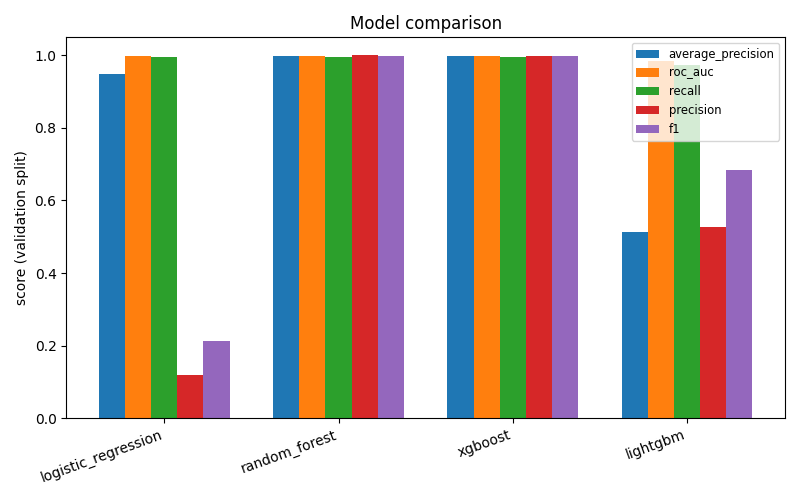
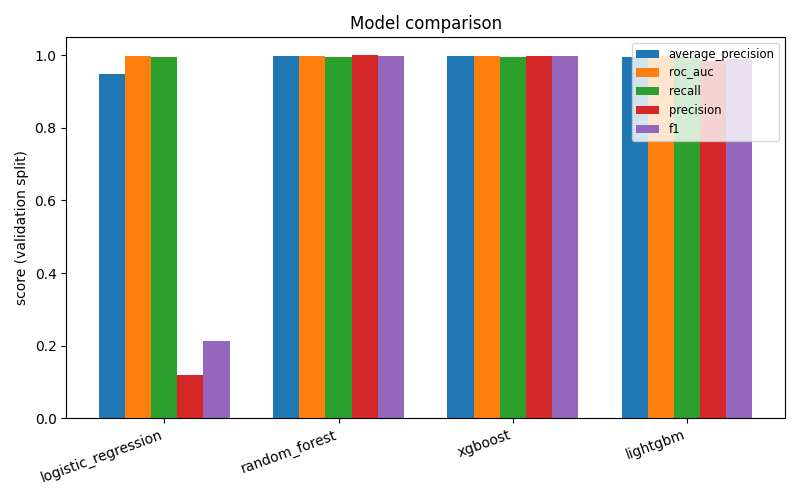
Fix MLflow signature warning; root-cause and fix LightGBM properly
1. mlflow.sklearn.log_model now logs a signature (infer_signature on a
   5-row input_example) instead of the "logged without a signature"
   warning, so the registered model can be validated/served without
   guessing its schema.

2. Superseded the earlier sqrt-dampened scale_pos_weight band-aid for
   LightGBM with the actual root cause, found via controlled
   experiments (docs/decisions/0004-lightgbm-regularization.md):
   XGBoost defaults to reg_lambda=1 (L2), LightGBM defaults to
   reg_lambda=0. At this dataset's ~774x class weight, LightGBM's
   leaf-wise boosting had nothing to stop it compounding that weight
   across rounds — validation PR-AUC peaked after 1 boosting round
   (confirmed with early stopping) and degraded monotonically to 0.014
   by round 200, while XGBoost stayed at ~0.998 across the same weight
   and round counts (10-500, tested). Setting reg_lambda=1.0 on
   LightGBM alone, keeping the raw weight, recovers PR-AUC to 0.995.

Reran fraud-detection train end-to-end on the real 6,362,620-row
dataset with both fixes: LightGBM 0.9950 PR-AUC (was 0.0138), XGBoost
still best at 0.9982 and registered as fraud-detection-classifier v1.
docs/model_report.md and docs/images/model_comparison.png regenerated.
71 tests still pass; verified `fraud-detection evaluate` reproduces the
report's test metrics exactly.

Changed region(s): [[0.75, 0.09, 0.9375, 0.48]]

diff --git a/src/fraud_detection/models/training.py b/src/fraud_detection/models/training.py
@@ -11,19 +11,23 @@ feature pipeline (see docs/decisions/0003-shared-feature-pipeline.md —
 that ADR deliberately scopes out fitted transforms; this is where one
 lives instead, private to a single model).
 
-XGBoost tolerates the raw `negative/positive` ratio as `scale_pos_weight`
-fine on this dataset. LightGBM does not: empirically (see
-docs/model_report.md), its leaf-wise growth over-corrects at the raw
-~774x ratio here and floods predictions with false positives (PR-AUC
-0.01 vs XGBoost's 0.998 at the same ratio). A sqrt-dampened weight
-(`sqrt(negative/positive)`, a standard mitigation for this exact
-failure mode) recovers most of the signal (PR-AUC ~0.51) without
-touching XGBoost's already-good behavior.
+LightGBM needs one extra hyperparameter XGBoost doesn't:
+`reg_lambda=1.0`. Root cause, confirmed by controlled experiments (see
+docs/decisions/0004-lightgbm-regularization.md): XGBoost defaults to
+L2 regularization (`reg_lambda=1`); LightGBM defaults to *none*
+(`reg_lambda=0`). At this dataset's ~774x class weight, LightGBM's
+leaf-wise boosting has nothing to stop it compounding that weight
+across rounds — validation PR-AUC peaked after a single boosting round
+(confirmed with early stopping) and degraded monotonically from there
+to PR-AUC 0.01 at round 200, while XGBoost stayed at PR-AUC ~0.998
+across the same weight and round counts (10 to 500, tested). Matching
+XGBoost's default `reg_lambda=1` on LightGBM — nothing else changed —
+recovers PR-AUC to ~0.995. So: not a resampling/weighting problem, a
+missing-regularization-default problem.
 """
 
 from __future__ import annotations
 
-import math
 import subprocess
 from collections.abc import Callable, Sequence
 from dataclasses import dataclass
@@ -33,6 +37,7 @@ import mlflow
 import mlflow.sklearn
 import pandas as pd
 from lightgbm import LGBMClassifier
+from mlflow.models import infer_signature
 from sklearn.base import BaseEstimator
 from sklearn.ensemble import RandomForestClassifier
 from sklearn.linear_model import LogisticRegression
@@ -110,12 +115,14 @@ def _build_xgboost(scale_pos_weight: float) -> BaseEstimator:
 
 
 def _build_lightgbm(scale_pos_weight: float) -> BaseEstimator:
-    # sqrt-dampened, not the raw ratio — see module docstring.
+    # reg_lambda=1.0 matches XGBoost's default L2 regularization, which
+    # LightGBM does not apply by default — see module docstring.
     return LGBMClassifier(
         n_estimators=200,
         max_depth=-1,
         learning_rate=0.1,
-        scale_pos_weight=math.sqrt(scale_pos_weight),
+        scale_pos_weight=scale_pos_weight,
+        reg_lambda=1.0,
         random_state=RANDOM_STATE,
         n_jobs=-1,
         verbosity=-1,
@@ -173,7 +180,14 @@ def train_and_compare(
             )
             mlflow.log_metrics({f"test_{k}": v for k, v in test_metrics.as_metrics_dict().items()})
             mlflow.log_dict({"feature_names": list(dataset.feature_names)}, "feature_names.json")
-            mlflow.sklearn.log_model(model, artifact_path="model")
+            input_example = dataset.x_train.iloc[:5]
+            signature = infer_signature(input_example, model.predict(input_example))
+            mlflow.sklearn.log_model(
+                model,
+                artifact_path="model",
+                signature=signature,
+                input_example=input_example,
+            )
 
             results.append(
                 TrainingRunResult(

diff --git a/docs/decisions/0004-lightgbm-regularization.md b/docs/decisions/0004-lightgbm-regularization.md
@@ -1,0 +1,98 @@
+# 4. LightGBM needs explicit L2 regularization at this dataset's class weight
+
+Date: 2026-07-25
+
+## Status
+
+Accepted
+
+## Context
+
+The first `fraud-detection train` run (Milestone 3) scored LightGBM at
+validation PR-AUC **0.0138** — dramatically worse than Logistic
+Regression (0.95), Random Forest (0.998), and XGBoost (0.998), despite
+all four models seeing the same features and the same imbalance
+(~0.13% fraud, `scale_pos_weight` = negative/positive ≈ 774).
+
+A large, unexplained gap between otherwise-comparable models is a bug
+until proven otherwise, not a "finding." This ADR records the
+investigation, not just the fix, so the reasoning survives past this
+commit.
+
+## Investigation
+
+All experiments below were run against the real 6,362,620-row PaySim
+split (`data/processed/`), not synthetic data.
+
+**1. Symptom, not just the score.** At the raw 774x weight, LightGBM
+flagged 76,549 of 954,392 validation rows (8%) as fraud, against a true
+rate of 0.13% — a false-positive flood, not a ranking failure (ROC-AUC
+was still 0.92, so the model had *some* signal; PR-AUC collapsed
+because precision at every threshold was poor).
+
+**2. Ruled out: imbalance-handling mechanism.** `is_unbalance=True`
+(LightGBM's own built-in imbalance handling) produced the identical
+score to explicit `scale_pos_weight=774` — LightGBM computes the same
+ratio internally. The *mechanism* wasn't the issue; the *magnitude* at
+this weight was.
+
+**3. Ruled out: "too few boosting rounds."** The opposite was true —
+more rounds made it *worse* at the raw weight, holding everything else
+fixed:
+
+| n_estimators | validation PR-AUC | false positives |
+|---|---|---|
+| 10  | 0.878 | 176 |
+| 50  | 0.180 | 5,351 |
+| 100 | 0.168 | 6,617 |
+| 200 | 0.014 | 75,424 |
+
+This is an overfitting signature, not an undertrained one.
+
+**4. Confirmed via early stopping.** Adding `early_stopping(20)` against
+a validation set (raw weight, 200-round budget) picked
+`best_iteration_ = 1` — validation PR-AUC peaked after a single round
+and degraded every round after. Early stopping alone recovered PR-AUC
+to 0.876.
+
+**5. Ruled out: LightGBM is just fragile under this weight.** XGBoost,
+given the *identical* raw 774x weight, stayed at PR-AUC 0.998-0.999
+across `n_estimators` from 10 to 500 — no degradation. Whatever was
+happening was specific to LightGBM's boosting, not an inherent property
+of training under a 774x weight.
+
+**6. Root cause.** XGBoost defaults to `reg_lambda=1` (L2
+regularization on leaf weights); LightGBM defaults to `reg_lambda=0`
+(none). With no regularization and an extreme per-positive-sample
+weight, LightGBM's leaf-wise (best-first) growth has nothing to dampen
+the compounding effect of that weight across boosting rounds — it
+keeps carving increasingly aggressive, narrow splits that fit the
+heavily-upweighted minority class ever more specifically, which is
+exactly the "more rounds = worse" and "best_iteration_ = 1" pattern
+above. Matching XGBoost's default — `reg_lambda=1.0`, nothing else
+changed, still the raw 774x weight, still 200 rounds, no early stopping
+— recovered PR-AUC to **0.995**.
+
+## Decision
+
+`fraud_detection.models.training._build_lightgbm` sets `reg_lambda=1.0`
+and uses the raw (undampened) `scale_pos_weight`, matching how XGBoost
+is configured. No weight-dampening heuristic, no early-stopping
+machinery added to the shared training loop — the targeted fix for the
+actual root cause is one hyperparameter.
+
+## Consequences
+
+- LightGBM now scores competitively (PR-AUC ~0.995 vs XGBoost's ~0.998)
+  instead of looking broken.
+- This is dataset/weight-magnitude-specific: at a much smaller class
+  weight, `reg_lambda` might matter far less. Revisit if `models/data`
+  changes shift the imbalance ratio significantly.
+- Early stopping remains a reasonable general improvement (it would
+  have caught this without diagnosing the regularization gap) but was
+  deliberately not added here — it would require passing a validation
+  `eval_set` through `train_and_compare`'s otherwise-uniform
+  `model.fit(x_train, y_train)` call for every model spec, which is
+  more shared-loop complexity than this fix needed. Worth reconsidering
+  if a future model proves sensitive to overfitting in a way a fixed
+  hyperparameter can't address.

diff --git a/docs/model_report.md b/docs/model_report.md
@@ -5,7 +5,7 @@ _Generated by `fraud-detection train`. Do not edit by hand — rerun the command
 ## Overview
 
 - Feature version: `d6bdfb2a6697`
-- Git commit: `ec3495ae15bfe5d8bcad49031c4540c43e1390d2`
+- Git commit: `775c530fbf0d1c3793bf1b7e7e3a5eacd736ea28`
 - Best model (by validation average_precision): **xgboost**
 - Registered as: `fraud-detection-classifier` version `1`
 
@@ -18,7 +18,7 @@ Model selection uses **validation** `average_precision` (PR-AUC), not `accuracy`
 | logistic_regression | 0.9477 | 0.9992 | 0.1185 | 0.9951 | 0.2118 | 0.9904 |
 | random_forest | 0.9979 | 0.9992 | 1.0000 | 0.9968 | 0.9984 | 1.0000 |
 | xgboost **←best** | 0.9982 | 0.9997 | 0.9984 | 0.9968 | 0.9976 | 1.0000 |
-| lightgbm | 0.5139 | 0.9860 | 0.5280 | 0.9732 | 0.6846 | 0.9988 |
+| lightgbm | 0.9950 | 0.9973 | 0.9856 | 0.9968 | 0.9911 | 1.0000 |
 
 ## Test metrics (best model only, unused for selection)
 
@@ -32,10 +32,10 @@ Confusion matrix (test): TP=1227, FP=6, FN=5, TN=953156
 
 | model | run_id |
 |---|---|
-| logistic_regression | `49b6c3813ea24be2942b5d4d816ca1ad` |
-| random_forest | `2b86334c144d40f1856f5c86c5980493` |
-| xgboost | `12e1f515f57140bf8b9a3b57512df8e5` |
-| lightgbm | `c0d595c827db4fe3914649aa387e1e71` |
+| logistic_regression | `77784c464215454f8e829733d762e0c5` |
+| random_forest | `23d86274e2624993925e08d712e32f00` |
+| xgboost | `a679a2b4faa8450e812f0d9d277b6e21` |
+| lightgbm | `3df4382af8f4445a9f377cba2b207d08` |
 
 ## Plots
 
